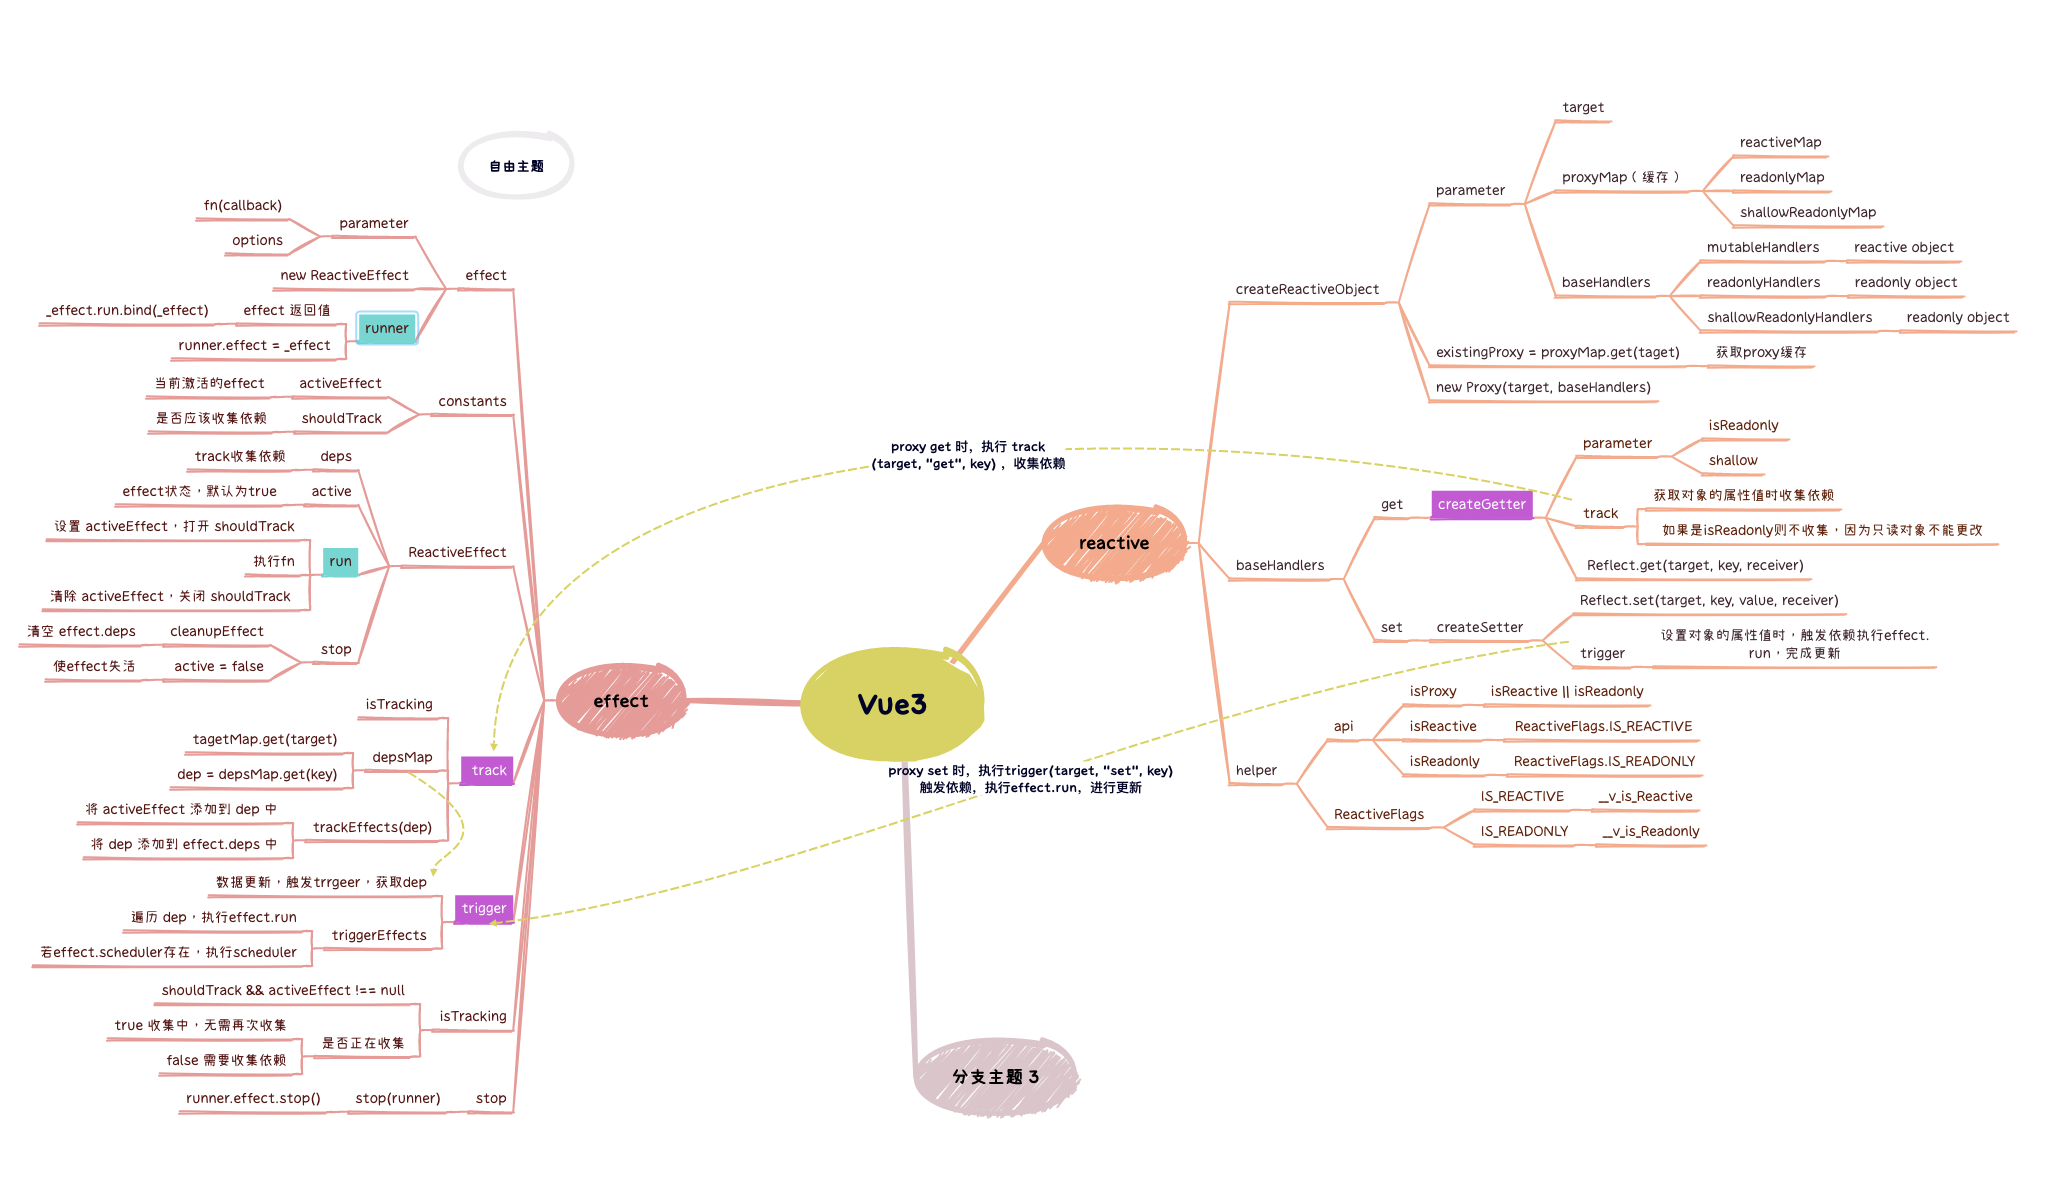
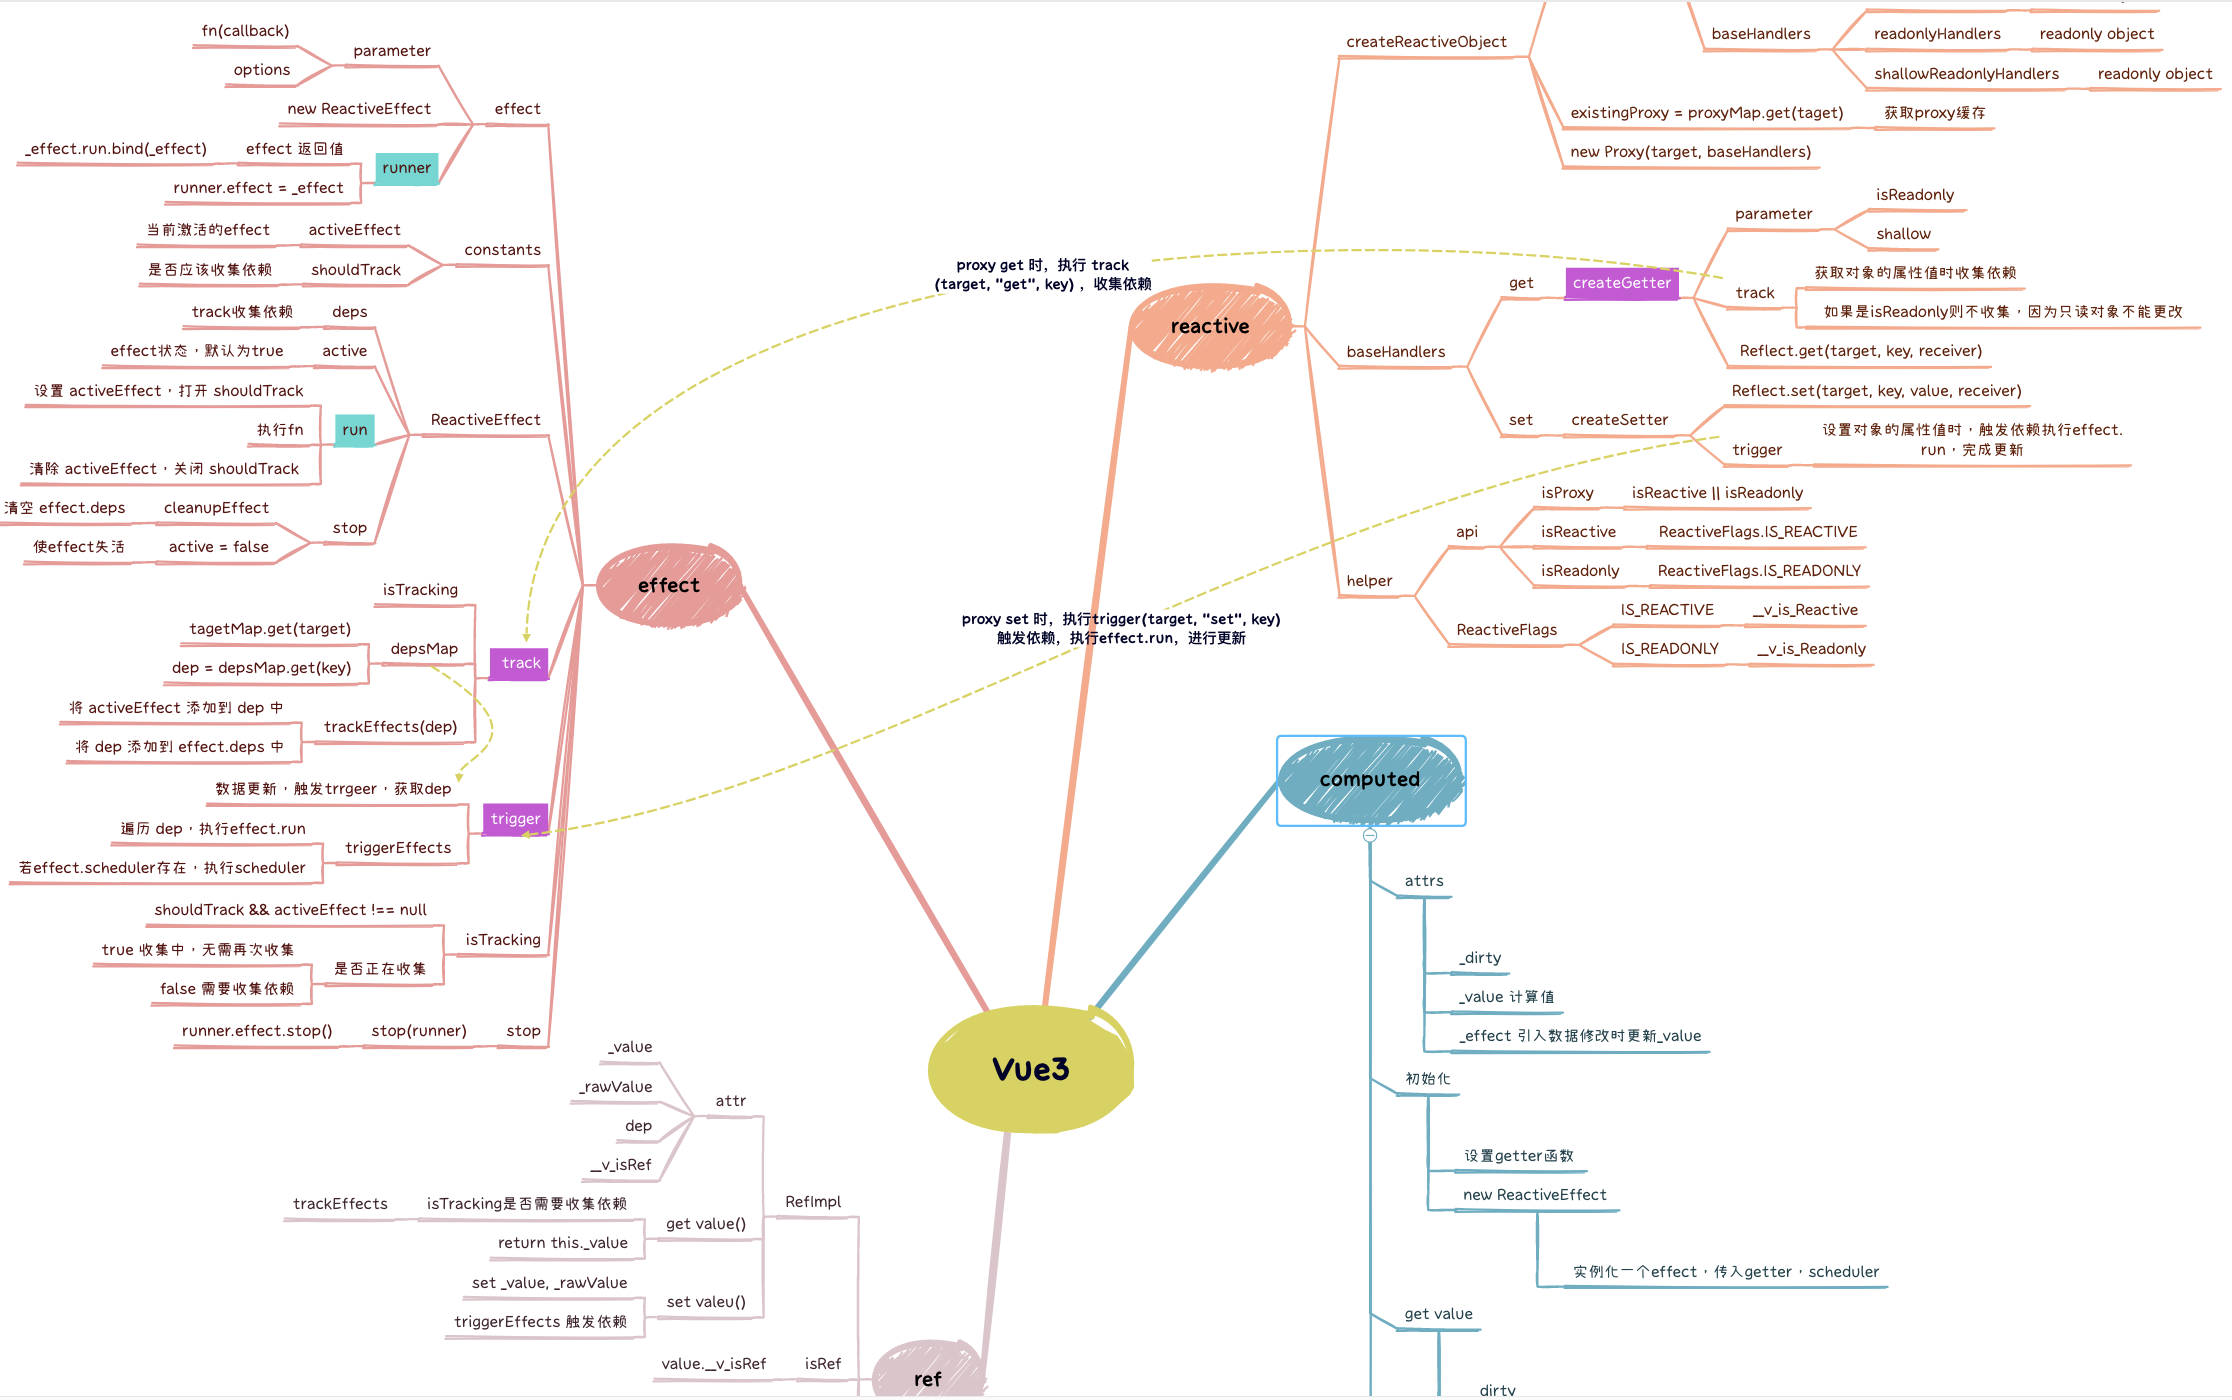
feat: update README.md

diff --git a/README.md b/README.md
@@ -10,9 +10,24 @@
 
 ## 学习笔记
 
-- reactivity
-  - [reactive](https://github.com/shellingfordly/mini-vue/blob/main/docs/reactive.md)
-  - effect
-  - ref
-- runtime-core
-- runtime-dom
+### reactivity
+
+1. [reactive](https://github.com/shellingfordly/mini-vue/blob/main/docs/reactive.md)
+
+![reactive 思维导图](./docs/imgs/reactive.png)
+
+2. effect
+
+![effect 思维导图](./docs/imgs/effect.png)
+
+3. ref
+
+![ref 思维导图](./docs/imgs/ref.png)
+
+4. computed
+
+![computed 思维导图](./docs/imgs/computed.png)
+
+### runtime-core
+
+### runtime-dom
